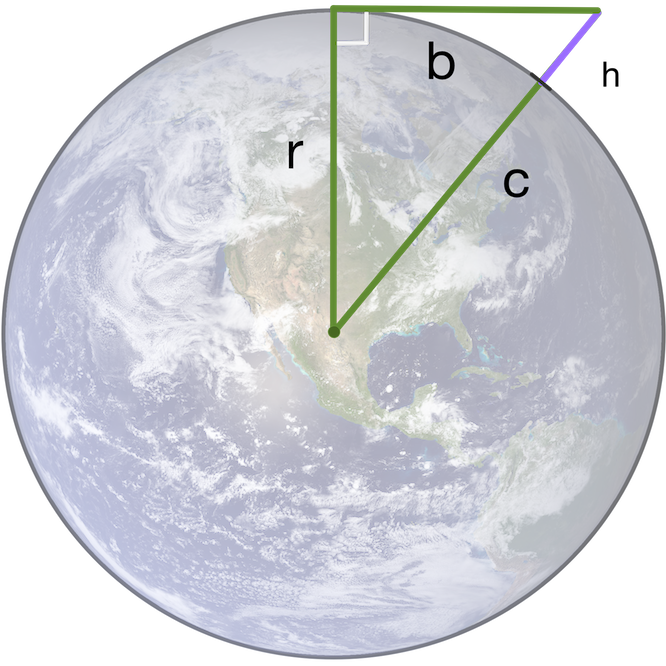
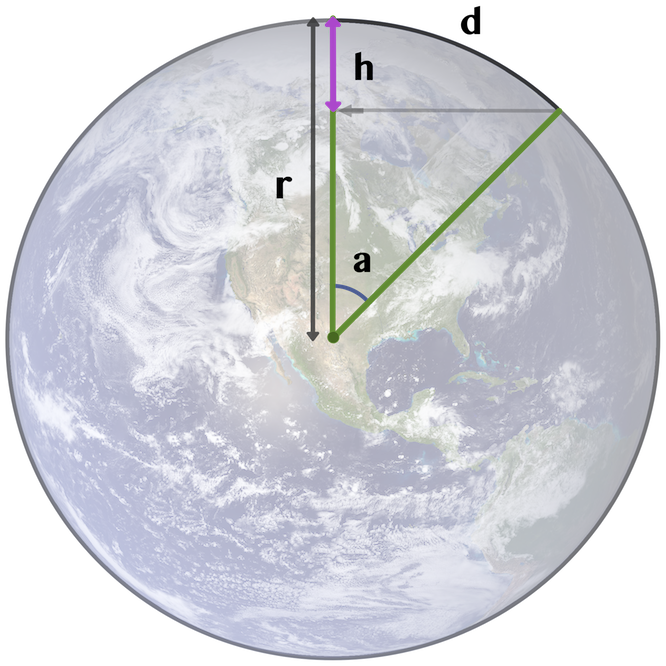
Updated the formula

diff --git a/index.html b/index.html
@@ -4,7 +4,7 @@
     <meta charset='utf-8'>
     <link rel="stylesheet" type="text/css" href="css/app.css">
     <link rel="shortcut icon" type="image/png" href="images/favicon.png">
-    <title>Earth Curvature Calculator Formula</title>
+    <title>Earth Curvature Calculator</title>
     <style>
       @import 'https://fonts.googleapis.com/css?family=Raleway:300,700';
     </style>
@@ -17,7 +17,7 @@
           by <a href="http://www.nyttnorge.com">NyttNorge.com</a>
         </p>
         <p class="intro">
-          Calculate the drop from your line of sight to the surface of the curved Earth.
+          Accurately calculate the curvature you are supposed to see on the ball Earth.
         </p>
       </div>
 
@@ -51,22 +51,17 @@
         <h2>Explanation:</h2>
         <div class="formula">
           <p>
-            The Earth's radius <code class="light">(r)</code> is 6371 km or 3959 miles based on
-            <a href="https://en.wikipedia.org/wiki/Earth_radius" target="_blank">Wikipedia</a>
+            The Earth's radius <code class="light">(r)</code> is 6371 km or 3959 miles, which gives a circumference <code class="light">(c)</code>of<br>
+            <code>c = 2 * &pi; * r = 40 030 km</code> based on numbers from <a href="https://en.wikipedia.org/wiki/Earth_radius" target="_blank">Wikipedia</a>
           </p>
           <p>
-            Pythagora's formula states that <code>r&sup2; + b&sup2; = c&sup2;</code>
+            We wish to find the height <code class="light">(h)</code> which is the drop in curvature over the distance <code class="light">(d)</code>
           </p>
           <p>
-            Therefore <code>c = &radic;<span style="text-decoration: overline">&nbsp;b&sup2; + r&sup2;&nbsp;</span></code>
-          </p>
+            Using the circumference we find that 1 unit of distance (km or mile) has the angle<br><code>360&deg; / 40030 km = 0.009&deg;</code>. The angle <code class="light">(a)</code> is then <code>a = 0.009 * distance (d)</code>
           <p>
-            The viewing distance <code class="light">(d)</code> at an angle perpendicular (90&deg;) to the Earth's surface, has a drop with max height <code class="light">(h)</code> at its half way point <code class="light">(d/2)</code> or <code class="light">(b)</code>
-          </p>
           <p>
-            The height <code class="light">(h)</code> is <code>c - r</code>
-          <p>
-            Substituting for <code class="light">b</code> we get the formula <code>h = &radic;<span style="text-decoration: overline">&nbsp;(d/2)&sup2; + r&sup2;&nbsp;</span> &ndash; r</code>
+            The derived formula <code>h = r * (1 - cos a)</code> is accurate for any distance <code class="light">(d)</code>
           </p>
         </div>
         <div class="image">
@@ -78,55 +73,74 @@
           <a href="https://github.com/suongp/curvature">Source code</a>
         </p>
         <p class="hint">
-          Note: Calculators using the formula <em>8 times the distance in miles squared</em>, <a target="_blank" href="https://dizzib.github.io/earth/curve-calc">like here,</a> produce much higer numbers. The actual curvature of the Earth is almost 3 times more.
+          Note: Using the formula <em>8 times the distance in miles squared</em>, <a target="_blank" href="https://dizzib.github.io/earth/curve-calc">like here,</a> is not accurate for long distances but are fine for practical use.
         </p>
       </div>
     </div>
 
     <script>
-      var debug = false;
-      var distance = document.querySelector("#distance");
-      var unit = document.querySelector("#unit");
-      var result = document.querySelector(".result");
+
+      var distance = document.querySelector("#distance")
+        , unit = document.querySelector("#unit")
+        , result = document.querySelector(".result")
+        , d, r, c, g, e, a, h, debug = true;
 
       function calc (){
-        var val = distance.value;
+        d = distance.value;
 
-        if(val.length < 1) {
+        if(d.length < 1) {
           distance.focus();
           return false;
         }
-        var b = parseFloat(val) / 2;
-        if(debug) console.log("B: " + b);
+
+        // Convert to number
+        d = parseFloat(d);
+
+        if(debug) console.log("D: "+ d);
 
         // Earth's radius in kilometers
-        var r = 6371;
+        r = 6371;
 
         // Convert to miles if miles is selected
         if(unit.value == 'miles') {
           r = r / 1.609344;
         }
 
-        if(debug) console.log("R: " + r);
+        if(debug) console.log("R: "+ r);
 
-        var a2 = Math.pow(r, 2) - Math.pow(b, 2);
+        // Find the circumference
+        c = 2 * Math.PI * r;
 
-        if(a2 < 0) {
+        if(debug) console.log("C: "+ c);
+
+        // Find degrees per 1 unit (1 km or 1 mile)
+        g = 360 / c;
+
+        if(debug) console.log("G: "+ g);
+
+        // Unit degrees times distance
+        e = g * d;
+
+        if(debug) console.log("E: "+ e);
+
+        // Convert degrees to radians since javascript likes that
+        a = e * (Math.PI / 180);
+
+        if(debug) console.log("A: "+ a);
+
+        h = r * (1 - Math.cos(a))
+
+        if(debug) console.log("H: "+ h);
+
+        // Not needed?
+        if(false) {
           result.innerHTML = "<div class='error'>Number is too high, please try a lower number.</div>"
           return false;
         }
 
-        if(debug) console.log("A2: " + a2);
-
-        var a = Math.sqrt(a2);
-        if(debug) console.log("A: " + a);
-
-        var h = r - a;
-
-        if(debug) console.log("H: "+ h);
-
         // Limit to 5 decimals
         h = h.toFixed(5);
+
         if(unit.value == 'miles') {
           h = h + " miles <span class='or'>=</span> " + (h * 5280).toFixed(2) + " feet";
         } else {

diff --git a/css/app.css b/css/app.css
@@ -2,7 +2,7 @@ body {
   font-family: "Raleway", "Helvetica Neue", Helvetica, sans-serif;
   color: #2F4E6F;
   font-size: 16px;
-  line-height: 22px;
+  line-height: 24px;
 }
 
 a:visited, a:active, a {
@@ -95,10 +95,13 @@ div.error {
   font-size: 90%;
 }
 
-
 div.explain {
   padding-top: 1.618em;
   font-size: 95%;
+}
+
+div.explain p {
+  white-space: nowrap;
 }
 
 div.explain h2 {
